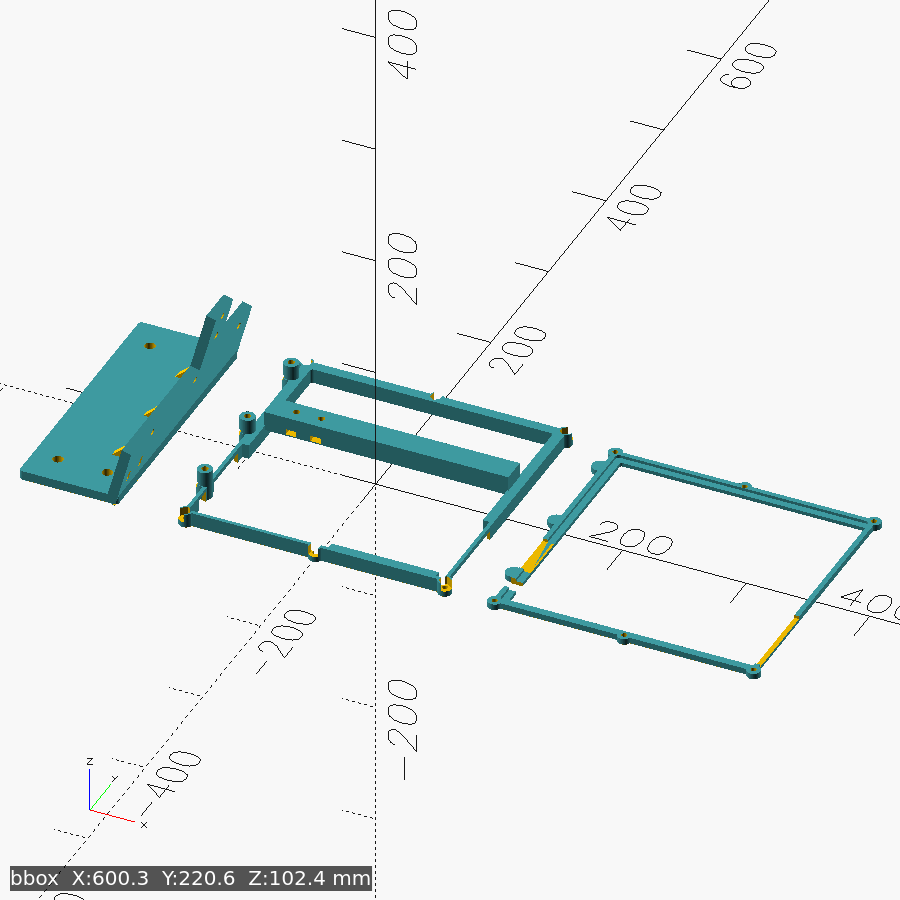
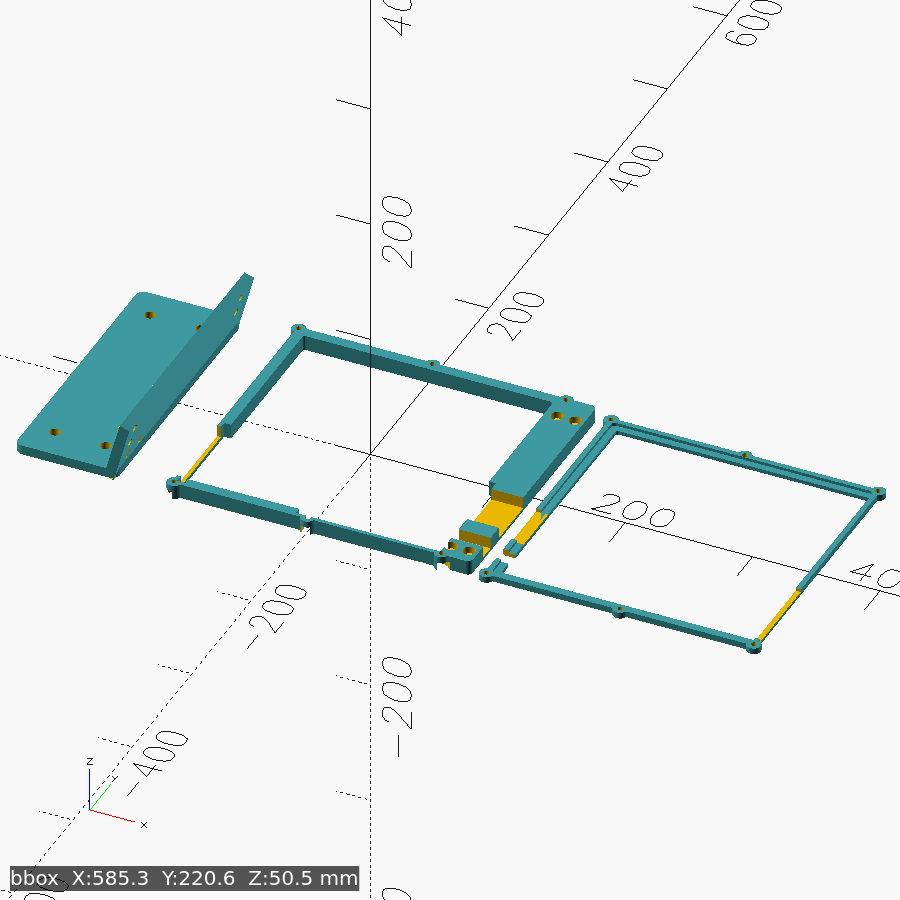
uniflag: rev 2 — flat-flange rework for support-free printing
The rev-1 frame was a support nightmare: a back rib floating 8 mm over
the open window (198 mm supported span), 24 mm M5 boss columns, and
41 mm bridged window roofs. Rework:

- Frame is now a uniform 12 mm ring whose left band extends into a flat
  2x2 M5x30 bolt flange (counterbored socket heads, nuts behind the
  wall). Rib + boss columns deleted; door-hinge stiffness comes from
  the 14 mm column couple + full flange-on-wall contact.
- Frame prints back-face down: the finger/USB notches open upward and
  their 3 mm continuous backing strip prints on the bed — keeping both
  side bands connected (full-depth cuts split the ring in two; the
  windows overlap over board-y 43-73) without any bridge.
- Bracket loses the rib arm: wall drops from ~100 mm to ~50 mm tall.
  Plate corners r3 -> r6 for warp relief. Zip-tie slots moved to the
  wall foot below the flange edge.
- No supports, no bridges, on any part; PETG + brim notes for the A1.

All three bodies watertight, single-shell, Euler matches the bore
count, asserts green, strict board/plug collision test renders empty.

diff --git a/projects/uniflag/SPEC.md b/projects/uniflag/SPEC.md
@@ -3,27 +3,45 @@
 Mount a Pimoroni Cosmic Unicorn (32×32 RGB matrix, the owner's
 [uniflag firmware](https://github.com/nickolaj-jepsen/uniflag), SimHub over
 USB CDC) on the **outboard face of the right wheel-deck upright** of a GT Omega
-PRIME Lite, screen facing the driver. All units mm. Status: **design rev 1 —
+PRIME Lite, screen facing the driver. All units mm. Status: **design rev 2 —
 modelled and geometry-verified** (all three bodies watertight, single-shell,
 asserts green, strict board/plug collision test renders empty), **not yet
-printed**; the caliper checks below gate printing. Reference data:
-[docs/](docs/) (DXF-exact board geometry, cross-checked).
+printed**. Reference data: [docs/](docs/) (DXF-exact board geometry,
+cross-checked); all five photo-uncertain dimensions caliper-verified below.
 
-## As built (rev 1)
+## As built (rev 2 — printability rework, 2026-06-11)
 
-- Fasteners: 4× M8×14 (rail), **5× M5×30** (wall→frame: 3 on the ear line
-  outside the board's left edge + 2 into a back rib at board-y 120–140;
-  heads + washers on the wall's monitor side, nuts captive in frame pockets
-  with a ~10 mm bearing floor — an M5×14 here would leave a 1.5 mm floor
-  carrying the full preload, which is why the long bolts won), 6× M4×14
-  (ring sandwich, captive nuts in back-opening pockets so clamp force seats
-  them against solid material).
-- The board floats in a fixed 1.95 channel (`pcb 1.6 + chan_slack 0.35`) and
+Rev 1 verified geometrically but printed badly: its frame carried a back
+rib floating 8 mm over the open window (a 198 mm supported span) plus
+24 mm M5 boss columns, and its bracket needed a 100 mm wall + arm to reach
+them. Rev 2 replaces all of that with a **flat bolt flange**: the frame is
+a uniform 12 mm deep ring whose left band extends railward, and the wall's
+driver face bolts directly against the frame's back plane.
+
+- Fasteners: 4× M8×14 (rail), **4× M5×30** in a 2×2 grid through the flange
+  (columns 5.5/19.5 outside the board's left edge, rows at board-y 8/186
+  straddling the USB tunnel; socket heads sink into 5.5 mm front
+  counterbores — the 6.5 mm floor bears the preload in pure compression
+  against the wall face — washers + nuts on the wall's monitor side, 10.5 mm
+  thread proud), 6× M4×14 (ring sandwich, captive nuts in back-opening
+  pockets, unchanged).
+- Out-of-plane ("door-hinge") stiffness comes from the 14 mm column couple
+  plus the full flange-on-wall contact patch — rev 1's rib bolts are gone.
+  Static moment is ~0.3 Nm; the preloaded contact gaps at >7 Nm per bolt.
+- The board floats in a fixed 2.35 channel (`pcb 2.0 + chan_slack 0.35`) and
   never sees bolt preload.
-- Bracket: 80×210×8 rail plate, M8 rows at 25/185, wall leaning 15° (a
-  full-height strip + a rib arm), three weak-axis gussets stationed between
-  the washer rows, zip-tie slots under the USB drop.
-- Envelopes: bracket 104×210×100, frame 224×221×24, ring 224×221×5 — each
+- Bracket: 80×210×8 rail plate (corner r6 for warp relief), M8 rows at
+  25/185, wall leaning 15° — now only ~40 mm up the lean (top of part
+  ≈ 50 mm), three weak-axis gussets, zip-tie slots through the wall foot
+  below the flange edge.
+- **Print orientation is load-bearing for the frame:** it prints back-face
+  down, so the finger windows / USB tunnel are front-opening notches whose
+  3 mm continuous backing strip prints flat on the bed. (Front-face down,
+  that strip is an unsupported bridge — and cutting the notches full-depth
+  instead severs the band: the left and right windows overlap over board-y
+  43–73, which split the ring in two. Both were tried.)
+- No supports, no bridges, on any part.
+- Envelopes: bracket 90×210×50, frame 239×221×12, ring 221×221×5.35 — each
   fits the A1 bed (asserted).
 
 ## Decisions (owner interview, 2026-06-10)
@@ -43,7 +61,7 @@ printed**; the caliper checks below gate printing. Reference data:
 | Cable clips | Not wanted; bracket carries a strain-relief anchor near the port | owner manages cables |
 | Board fixing | **Perimeter picture-frame — zero M2 hardware.** Front ring laps ≤5 mm onto the front border; M4 + captive hex nuts clamp ring → board → rear frame | M2 annoying to source (owner); kills the rear-standoff risk; leaves the back open for the speaker |
 | Fitted extras | Bare board; metal legs come off; **speaker in use** → back stays open | owner |
-| Frame ↔ bracket joint | Bolt flange, M5 + captive hex nuts | owner has M4/M5 nuts |
+| Frame ↔ bracket joint | Bolt flange, M5 through-bolts + nuts (rev 2: counterbored heads, nuts behind the wall) | owner has M4/M5 nuts |
 | Repo layout | **One project, multi-body STL**: `uniflag.scad` lays the three parts out flat; slicer splits objects. `part = "plate"|"bracket"|"frame"|"ring"` customizer | no tooling changes; shared dims in one file |
 
 ## Owner's hardware bin
@@ -54,17 +72,18 @@ Design uses **M8×14** (rail), **M5** (flange), **M4** (frame sandwich) only.
 ## The three printed parts
 
 1. **Bracket** — plate on the upright (4× M8 clearance, 2×40 mm columns, rows
-   spread for pitch stiffness) + gusseted wing carrying the 15° yaw, ending in
-   an M5 bolt flange. Prints rail-face down (ebrake recipe: elephant-foot
-   chamfer, countersunk bore rims, teardropped horizontal bores).
-2. **Rear frame** — structural ring behind the board's perimeter (~218 sq
-   outline), M5 hex pockets mating the flange, M4 hex pockets for the sandwich,
-   strain-relief tab (zip-tie slots) below the USB cutout. Touches the board
+   spread for pitch stiffness) + a short gusseted wall carrying the 15° yaw;
+   the frame's flange bolts flat against its driver face. Prints rail-face
+   down (ebrake recipe: elephant-foot chamfer, countersunk bore rims,
+   teardropped horizontal bores), zip-tie slots through the foot.
+2. **Rear frame** — structural ring behind the board's perimeter (~213 sq
+   outline) whose left band extends railward into a flat 2×2 M5 bolt flange
+   (counterbored heads). M4 hex pockets for the sandwich. Touches the board
    only at the perimeter; rear lips segmented around the rear-edge keep-outs.
-   Prints flat on its back.
+   Uniform 12 deep; prints back-face down.
 3. **Front ring** — ≤5 mm lip over the board's ~6 mm dark border (LED packages
    start 7.25 mm in), clamps the board against the rear frame via M4s outside
-   the board outline. Prints flat.
+   the board outline. Prints flat, face down.
 
 ## Board interface geometry (DXF-exact unless noted; origin front bottom-left)
 

diff --git a/projects/uniflag/README.md b/projects/uniflag/README.md
@@ -8,32 +8,35 @@ seat. Three print bodies in one STL (`part="plate"` default — split objects
 in the slicer); design rationale and DXF-exact board data in
 [SPEC.md](SPEC.md) and [docs/](docs/).
 
-**Parts:** `bracket` (rail plate + leaning wall), `frame` (rear ring the
-board drops into), `ring` (front clamp ring; right edge open for the light
-sensor). Render/verify one body with
-`scad render uniflag --tag frame -D 'part="frame"'`; `part="assembly"` shows
-the fit, `part="collide"` must render empty.
+**Parts:** `bracket` (rail plate + short leaning wall), `frame` (rear ring
+the board drops into, extended into a flat M5 bolt flange), `ring` (front
+clamp ring; right edge open for the light sensor). Render/verify one body
+with `scad render uniflag --tag frame -D 'part="frame"'`; `part="assembly"`
+shows the fit, `part="collide"` must render empty.
 
-**Key params:** `gap=40` (rail → board edge, fits the micro-B plug),
-`yaw=15`, `chan_slack=0.35` (board float), `bd_clr=0.4`, `usb_y`/`btnl_y`/
-`btnr_y` (edge windows), `m8_y` rows, `board_y0`.
+**Key params:** `gap=42` (rail → board edge, fits the measured 30 mm micro-B
+boot), `yaw=15`, `chan_slack=0.35` (board float), `bd_clr=0.4`,
+`usb_y`/`btnl_y`/`btnr_y` (edge windows), `m5_rows`/`col_sp` (flange bolt
+grid), `m8_y` rows, `board_y0`.
 
-**Hardware:** 4× M8×14 + T-nuts (rail), 5× M5×30 + nuts (wall → frame;
-heads on the monitor side, nuts captive in frame pockets), 6× M4×14 + nuts
-(ring → frame; nuts drop into the back-opening pockets).
+**Hardware:** 4× M8×14 + T-nuts (rail), 4× M5×30 + washers + nuts (flange →
+wall; socket heads sink into flange counterbores, nuts on the monitor side),
+6× M4×14 + nuts (ring → frame; nuts drop into the back-opening pockets).
 
-**Assembly:** M4 nuts into the frame's back pockets → board into the frame →
-ring on, M4s from the front → M5 nuts into the ear/rib pockets → offer the
-sandwich to the wall, M5×30s from the monitor side → bracket to the rail
-with M8s, slide to height, tighten. Zip-tie the USB cable through the wall
-slots below the plug.
+**Assembly:** bracket to the rail with M8s, slide to height, tighten →
+**M4 nuts into the frame's back pockets first** (the wall covers the
+left-corner pockets once mounted) → frame onto the wall, M5×30s through the
+front counterbores, washer + nut behind the wall (before the board goes in —
+the ring overlaps the counterbore mouths) → board into the frame → ring on,
+M4s from the front. Zip-tie the USB cable through the wall-foot slots below
+the plug tunnel.
 
-**Print:** all bodies lie print-ready (bracket rail-face down — its wall
-leans 15°, self-supporting). PETG/ASA, 0.2 mm layers, ≥4 walls, 40–50 %
-infill, no supports.
-
-**Before printing:** caliper the five must-measure items in SPEC.md (USB
-port height, board edge stack, button protrusion, rear keep-outs, light
-sensor) — the frame windows are cut to photo-derived numbers.
+**Print (Bambu A1):** all bodies lie print-ready in the plate — bracket
+rail-face down (15° wall is self-supporting, M5 bores teardropped), frame
+back-face down (notches open upward), ring front-face down. PETG (the A1 is
+open-frame — ASA will warp at this footprint), 0.2 mm layers, ≥4 walls,
+40–50 % infill, **no supports, no bridges**. Use a 5 mm brim on the frame
+and ring and a textured PEI sheet against corner lift; the bracket plate's
+big rounded corners + elephant-foot chamfer are the warp relief.
 
 ![preview](preview.png)